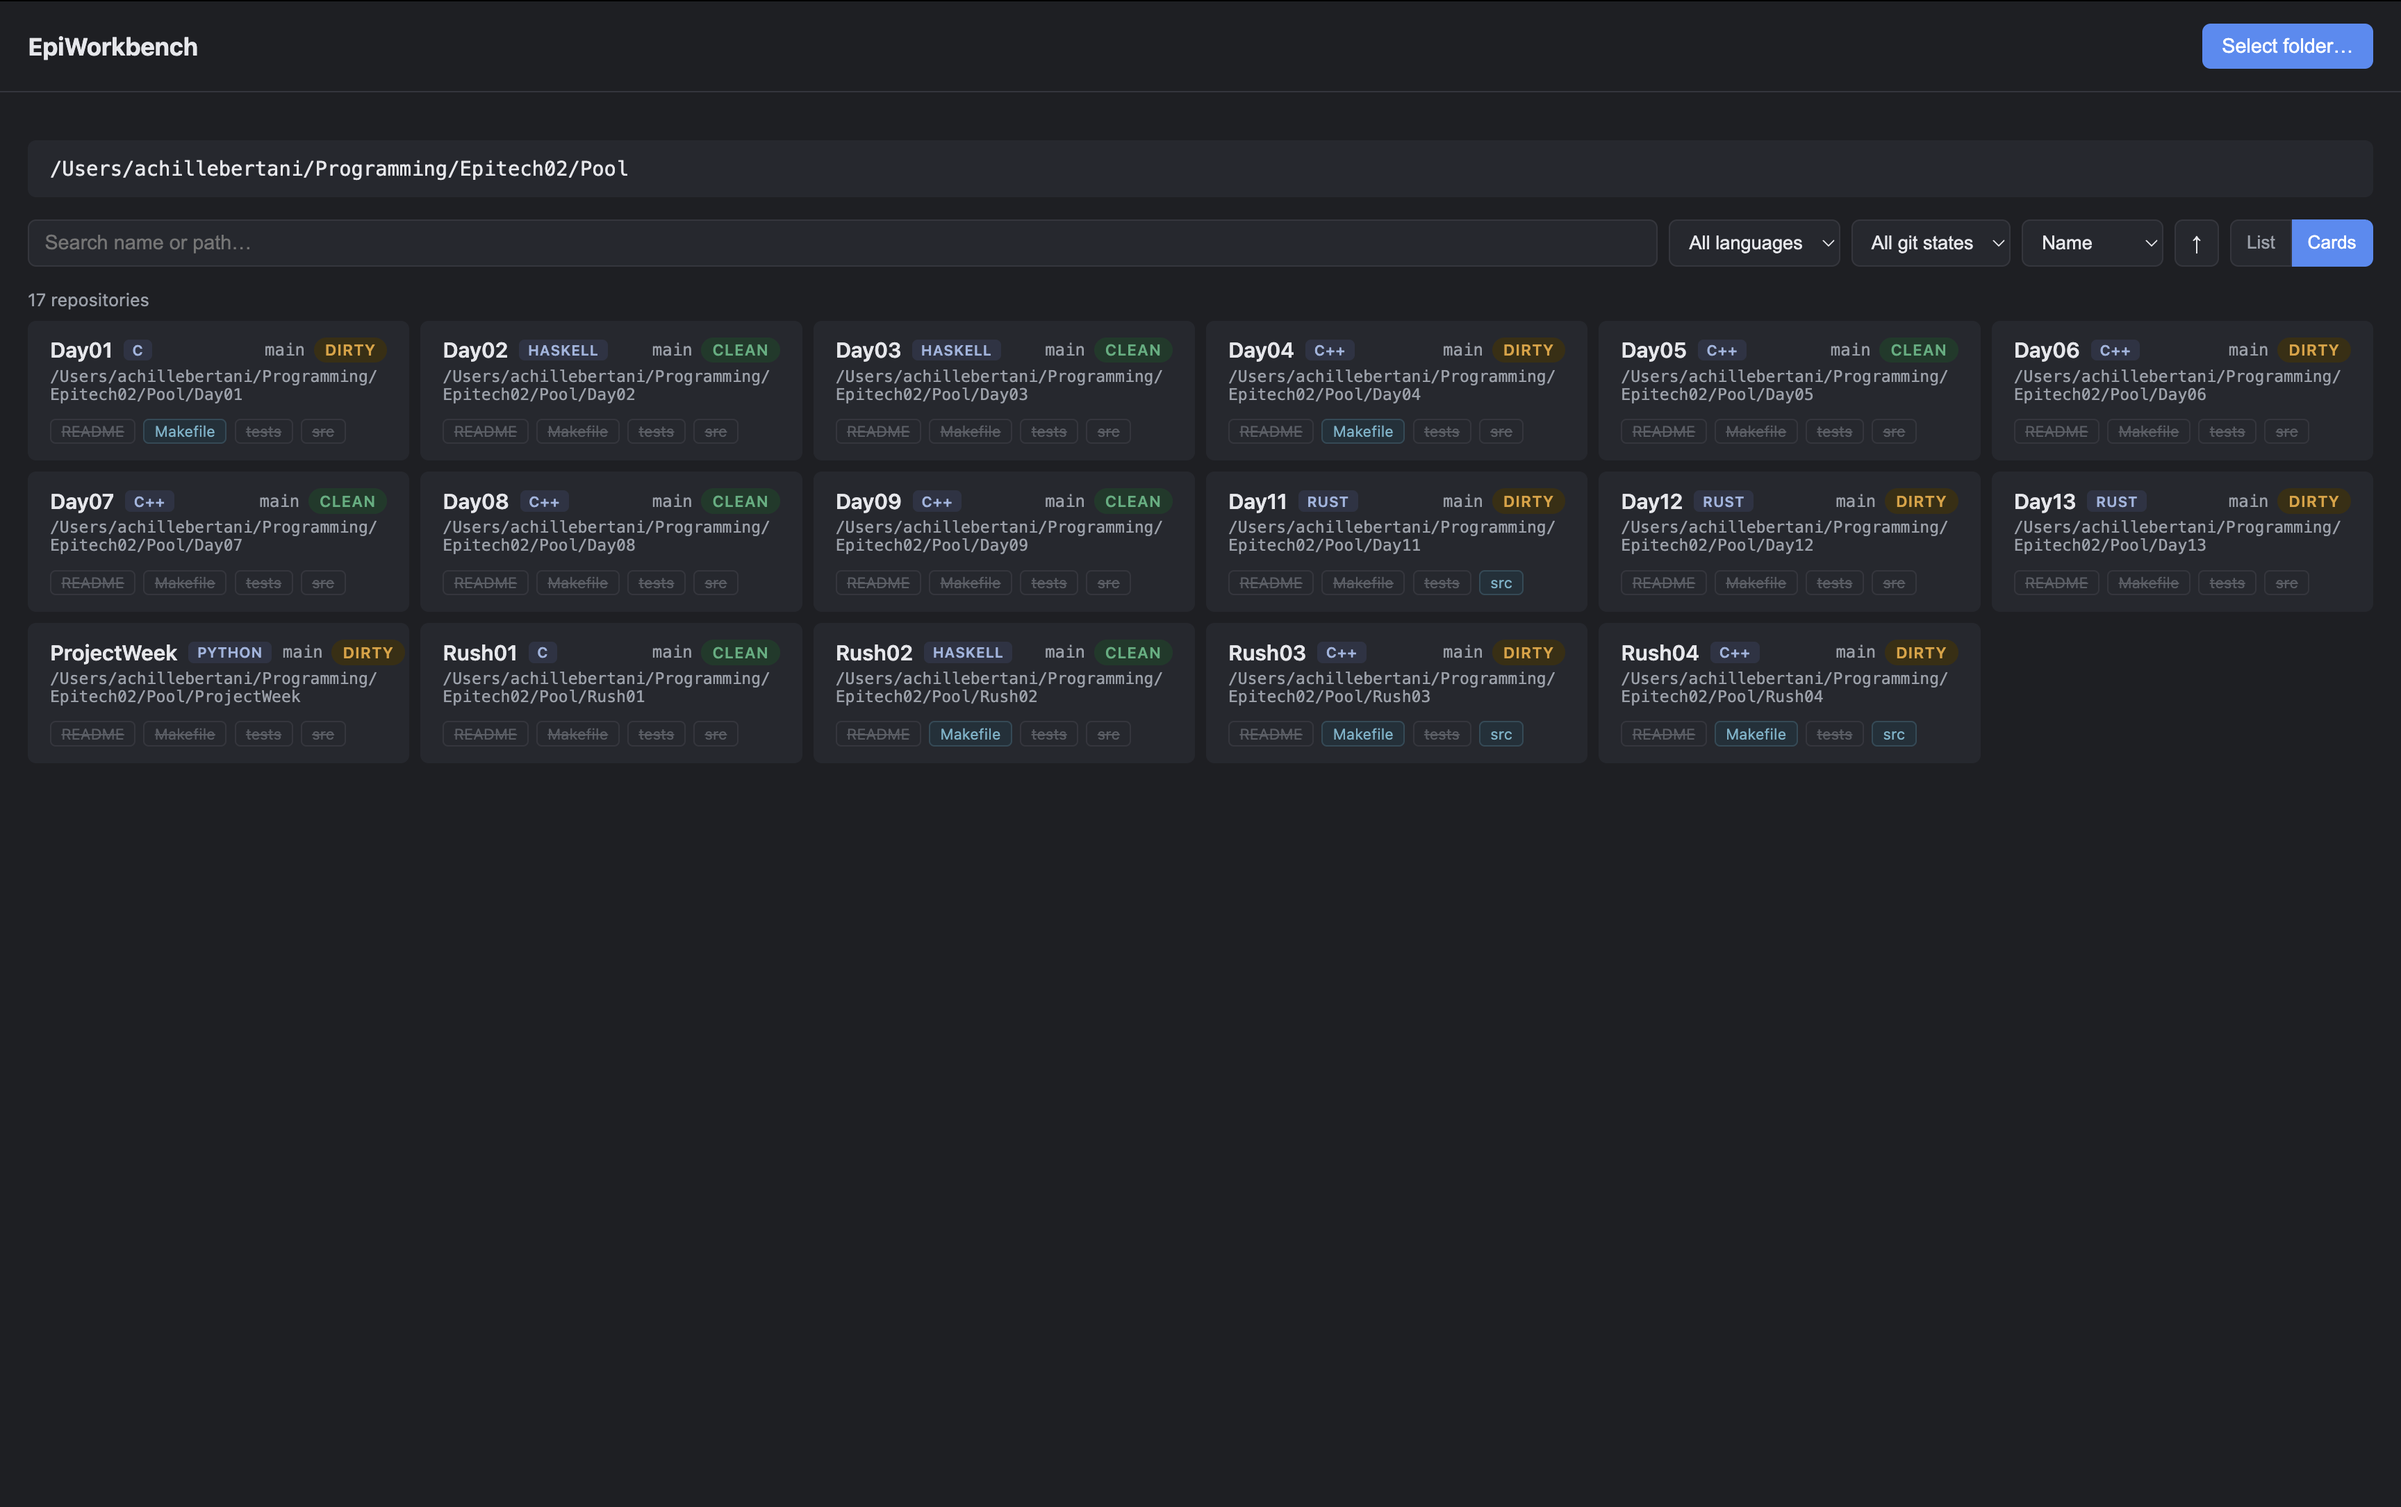
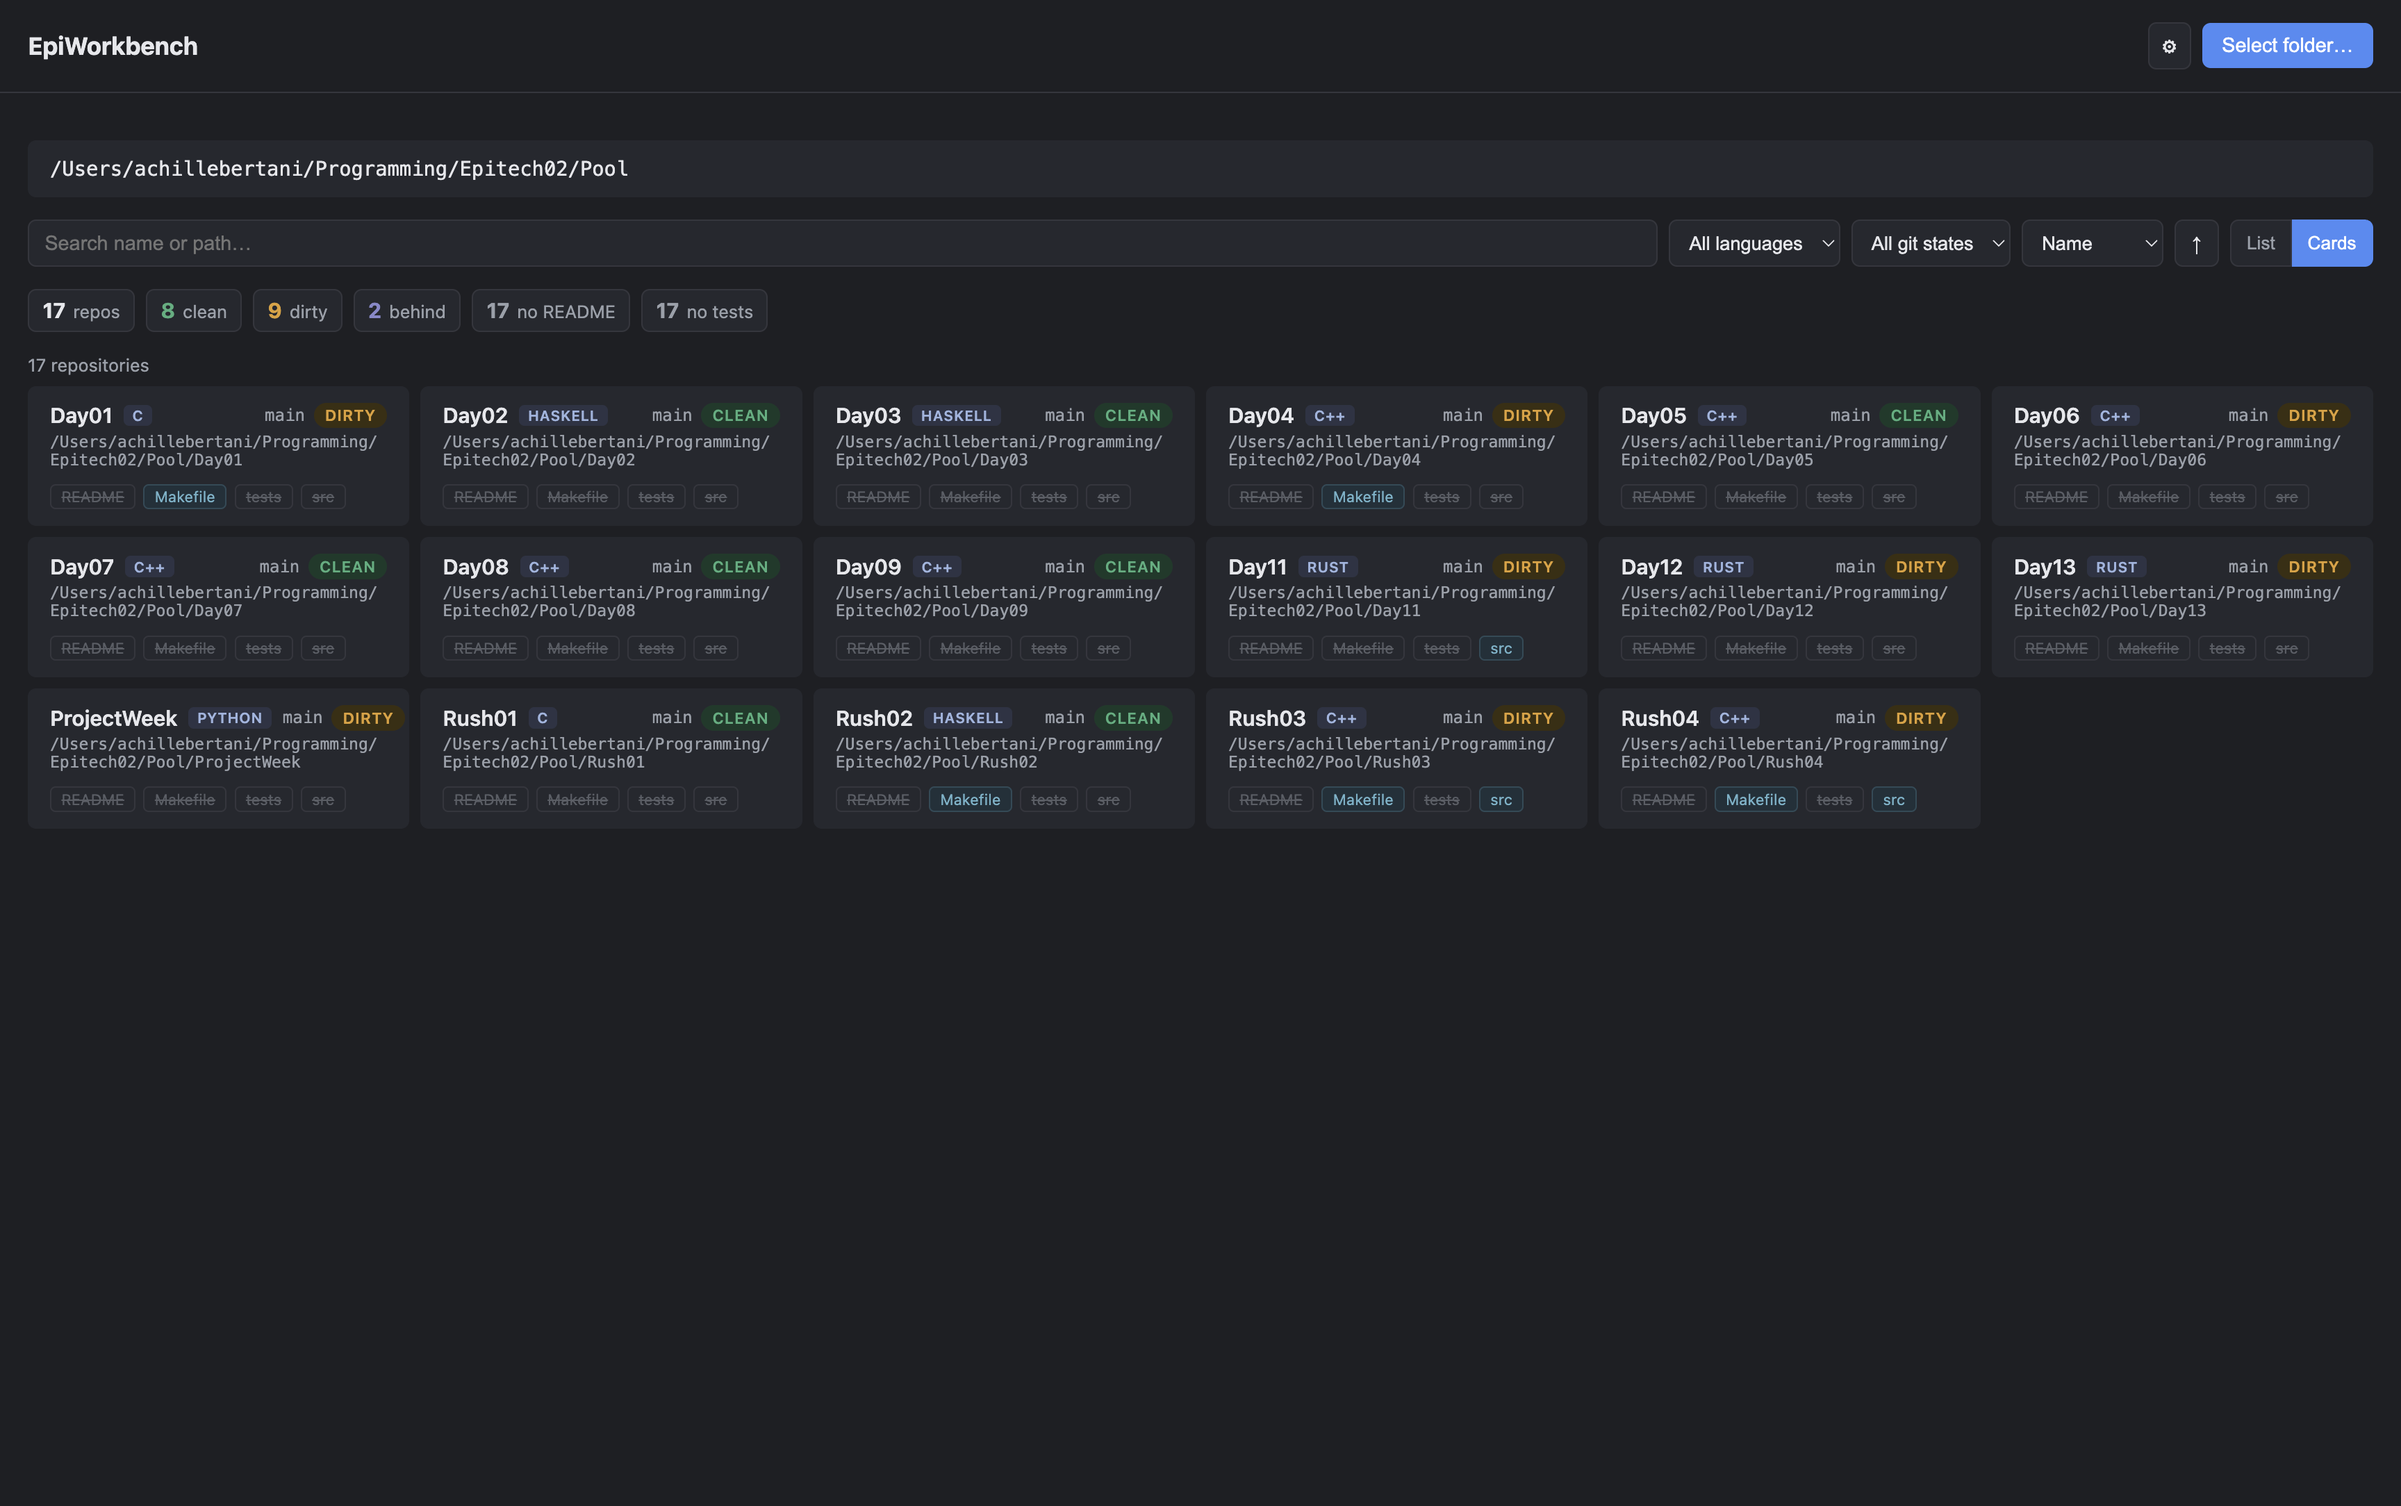
[FIX] updated readme

Changed region(s): [[0.0, 0.1854, 0.8125, 0.5563], [0.8438, 0.2163, 1.0, 0.4327], [0.7188, 0.1545, 0.75, 0.1854]]

diff --git a/README.md b/README.md
@@ -6,6 +6,8 @@ A local cross-platform desktop tool for Epitech students. Point it at a folder o
 
 ![Card view of the scanned repositories](docs/card-view.png)
 
+![List view of the scanned repositories](docs/list-view.png)
+
 ![Repository details panel](docs/details-panel.png)
 
 ## Features
@@ -61,6 +63,17 @@ npm run build
 ```
 
 Compiled output goes into `out/`.
+
+## Package
+
+Produce a distributable application for the current platform:
+
+```bash
+npm run package       # full installer (.dmg / .nsis / .AppImage)
+npm run package:dir   # unpacked app bundle only (faster, for testing)
+```
+
+Output goes into `release/`. Builds target the OS you run the command on (macOS → dmg, Windows → nsis, Linux → AppImage). The macOS build is unsigned (no Apple Developer certificate configured).
 
 ## Quality checks
 
